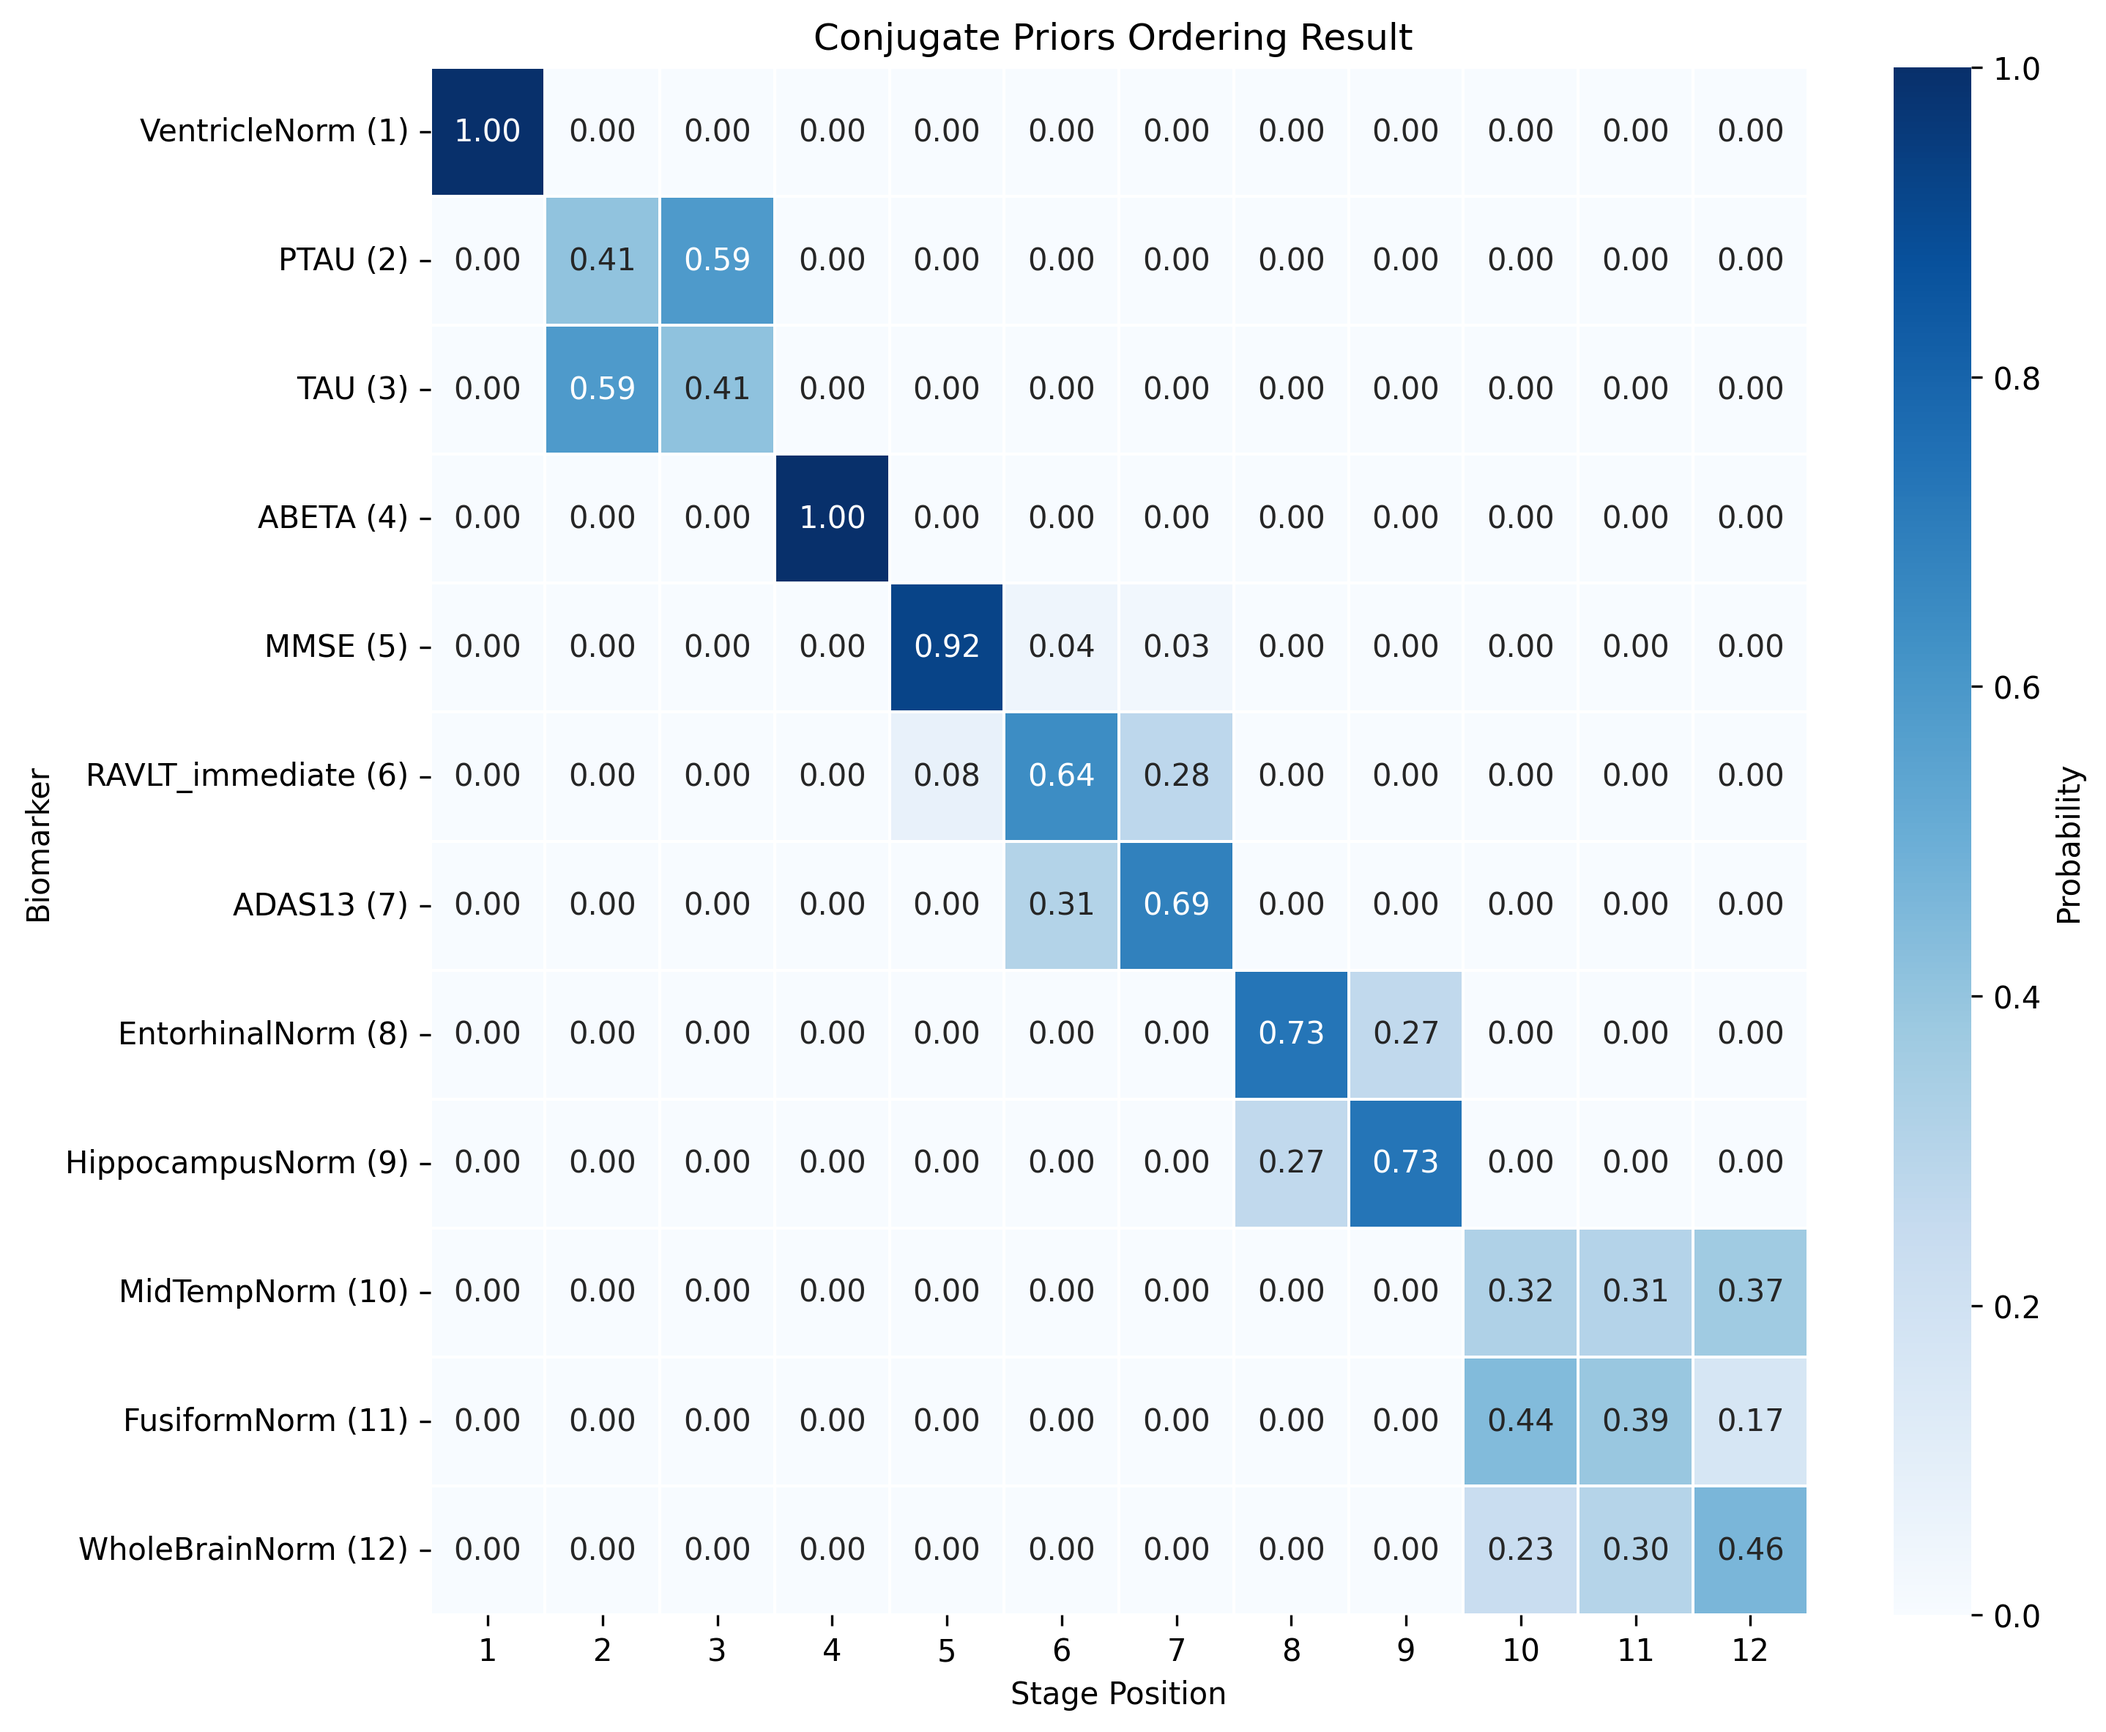
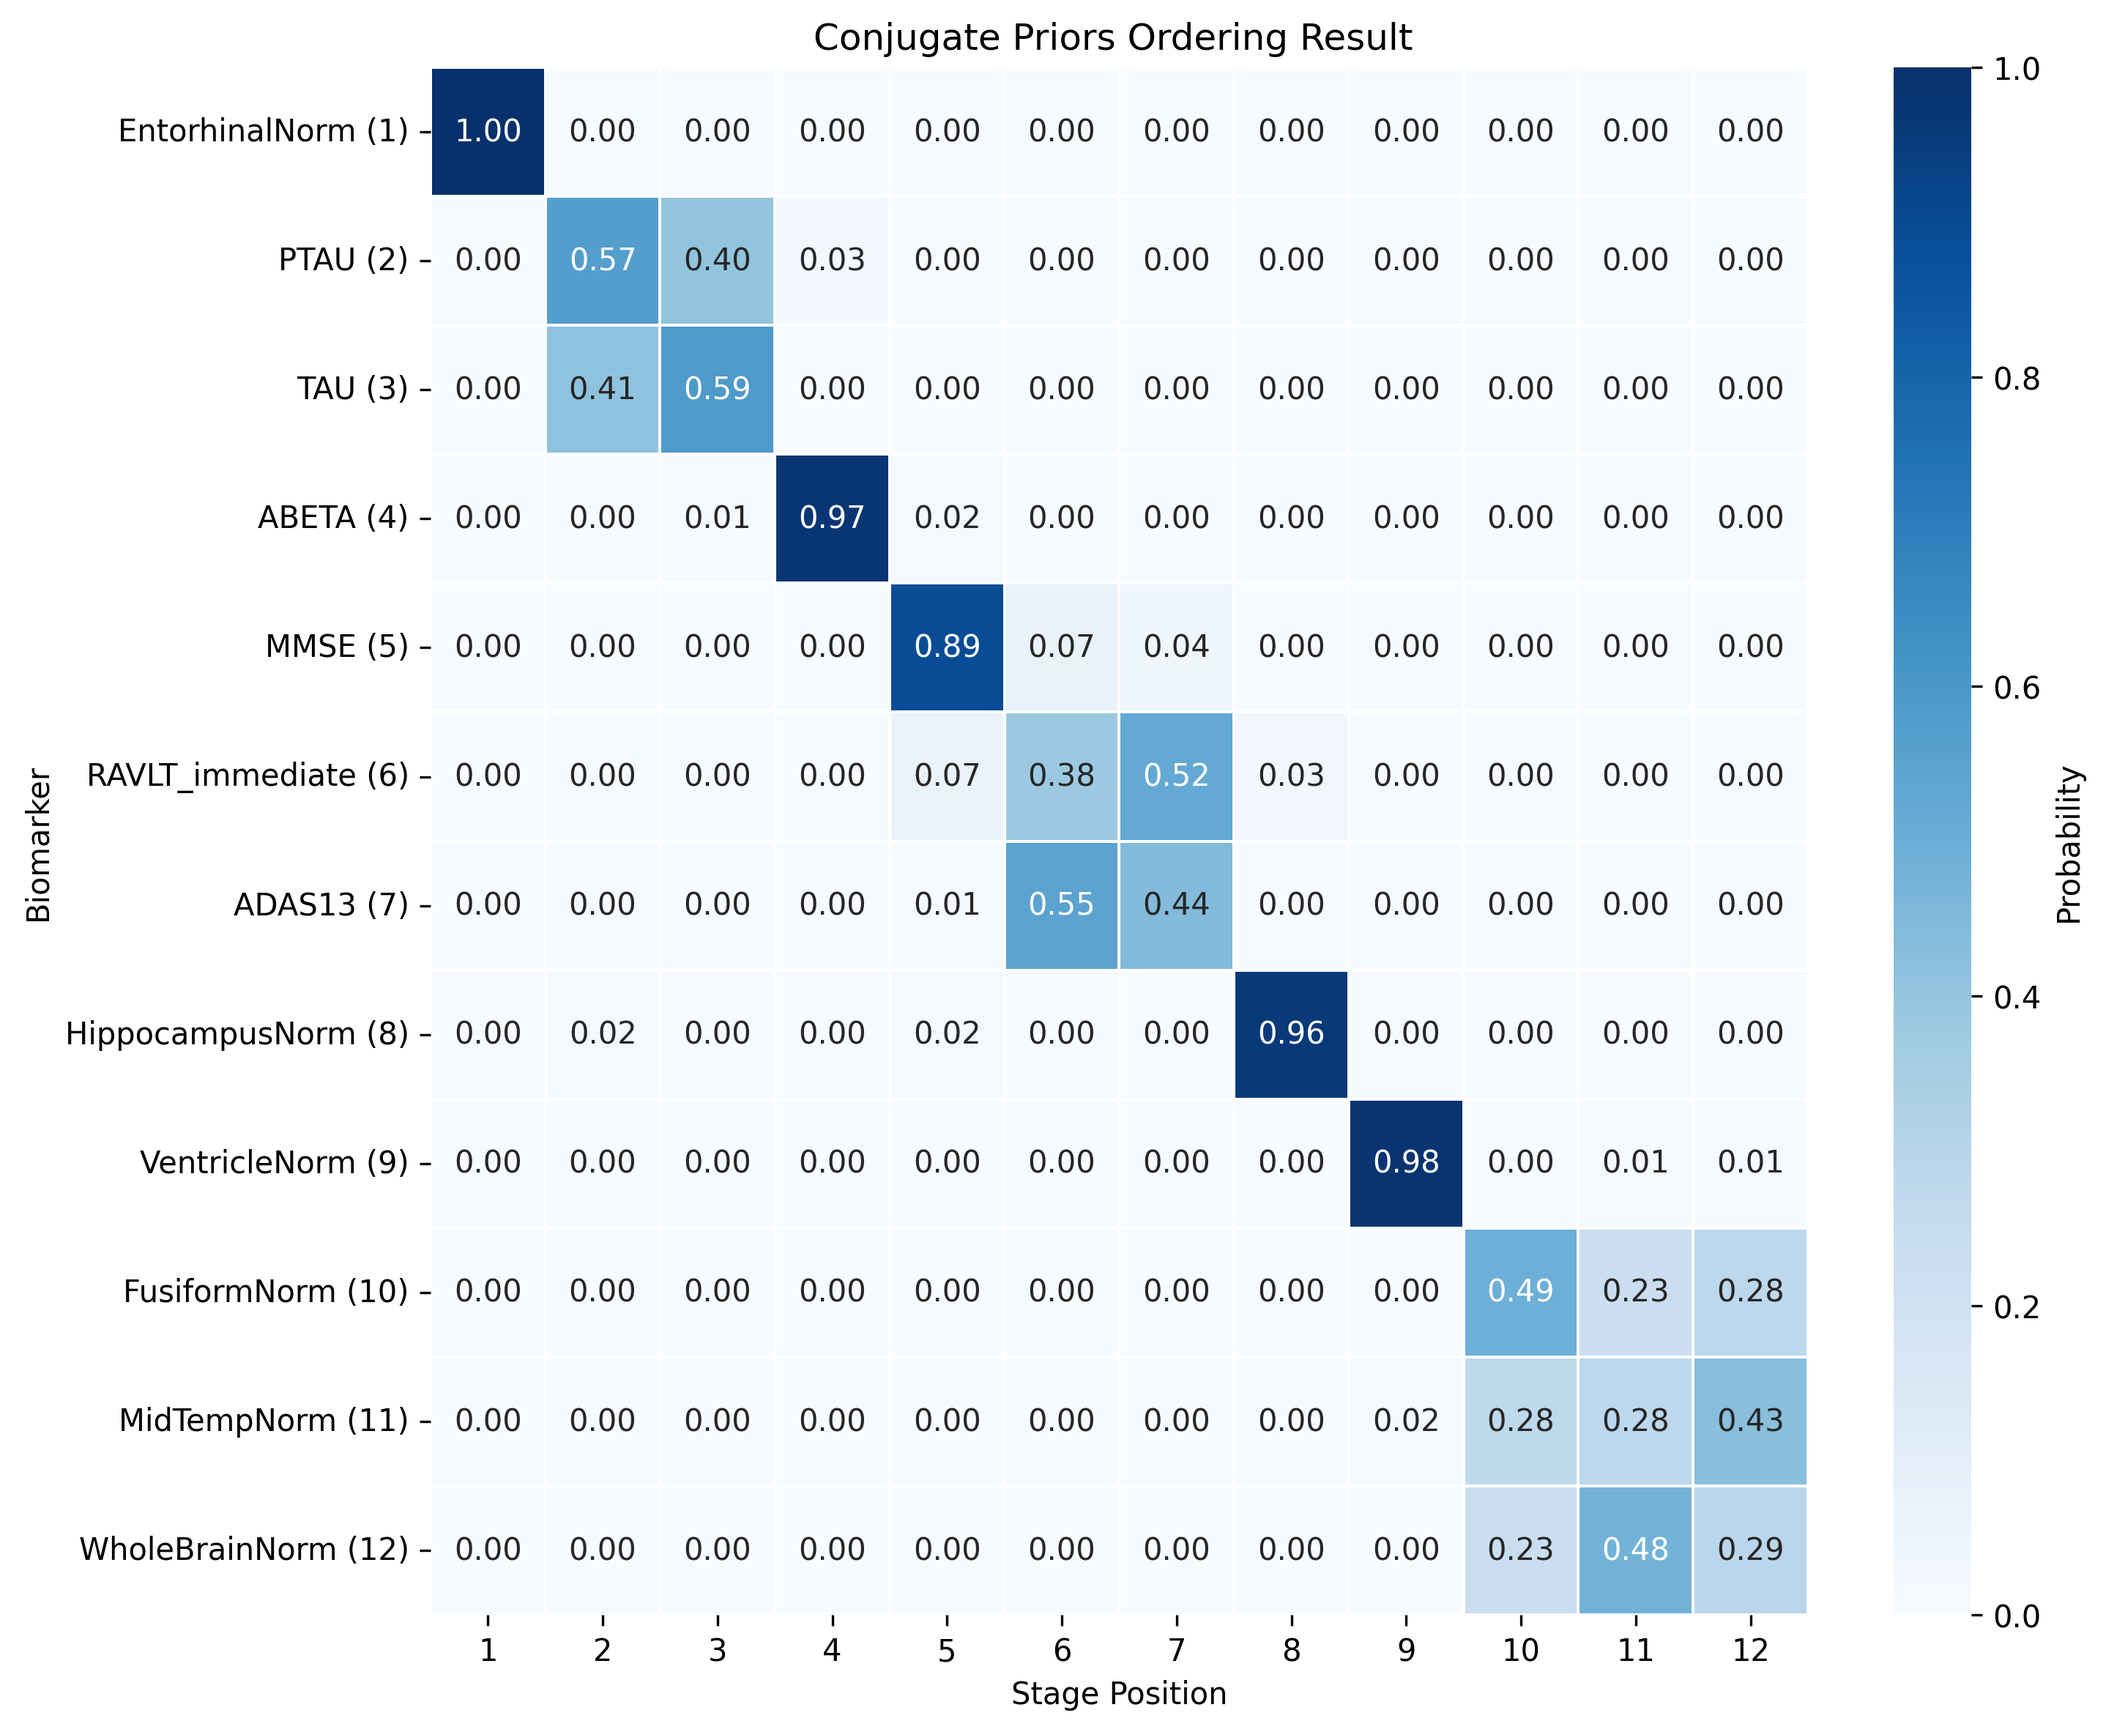
update README.

diff --git a/index.html b/index.html
@@ -258,12 +258,23 @@
           This clarification does not affect any reported results, 
           but ensures consistency between the mathematical description and the implementation.
         </p>
+
+        <h2 class="title is-3 correction-title">Further Clarifications for Conjugate Priors</h2>
+        <ol>
+          <li>
+            Previously, we used hard assignment as in MLE, i.e., each biomarker measurement belongs 
+            to either the pre- or post-event state. Now, we are using soft assignment: 
+            each biomarker value belongs to both states probabilistically.
+          </li>
+          <li>
+            We use $\hat{\alpha}^2 = \frac{\beta_n}{\alpha_n}$ as we found this leads to empirical gains in performance.
+          </li>
+        </ol>
+        
       </div>
     </div>
   </div>
 </section>
-
-
 
 <section class="section">
   <div class="container is-max-desktop">
@@ -329,6 +340,11 @@
         <p>
           Intracranial volume (ICV) normalization was not applied to brain volumes in the ADNI dataset, as it is standard practice due to natural variations in brain size. However, applying normalization altered the ADNI results, leading to new interpretations.
         </p>
+      </br>
+        <p>
+          We tried ten random seeds for Conjugate Priors and UCL GMM to maximize the data log likelihood. For details, refer to https://github.com/hongtaoh/saebm?tab=readme-ov-file#adni.
+        </p>
+        </br>
         <h3 class="title is-4">Ordering Results</h3>
         <p>
           The DEBM model does not exhibit strong clustering, as similar biomarkers do not become pathological at similar times. DEBM GMM clustering performs better, but MRI brain volumes are scattered across the entire range. In contrast, UCL GMM, MLE, and Conjugate Priors demonstrate robust clustering. These models indicate that amyloid-beta (Aβ) and tau/p-tau become pathological before cognitive decline, followed by brain atrophy.
@@ -347,6 +363,7 @@
         </p>
         <div style="text-align: center;">
           <img src="./static/images/adni_staging_conjugate_priors.svg" alt="Conjugate Priors ADNI staging result">
+          <img src="./static/images/adni_staging_mle.svg" alt="MLE ADNI staging result">
           <img src="./static/images/adni_staging_ucl_gmm.svg" alt="UCL GMM ADNI staging result">
           <img src="./static/images/adni_staging_debm.svg" alt="DEBM ADNI staging result">
           <img src="./static/images/adni_staging_debm_gmm.svg" alt="DEBM GMM ADNI staging result">
